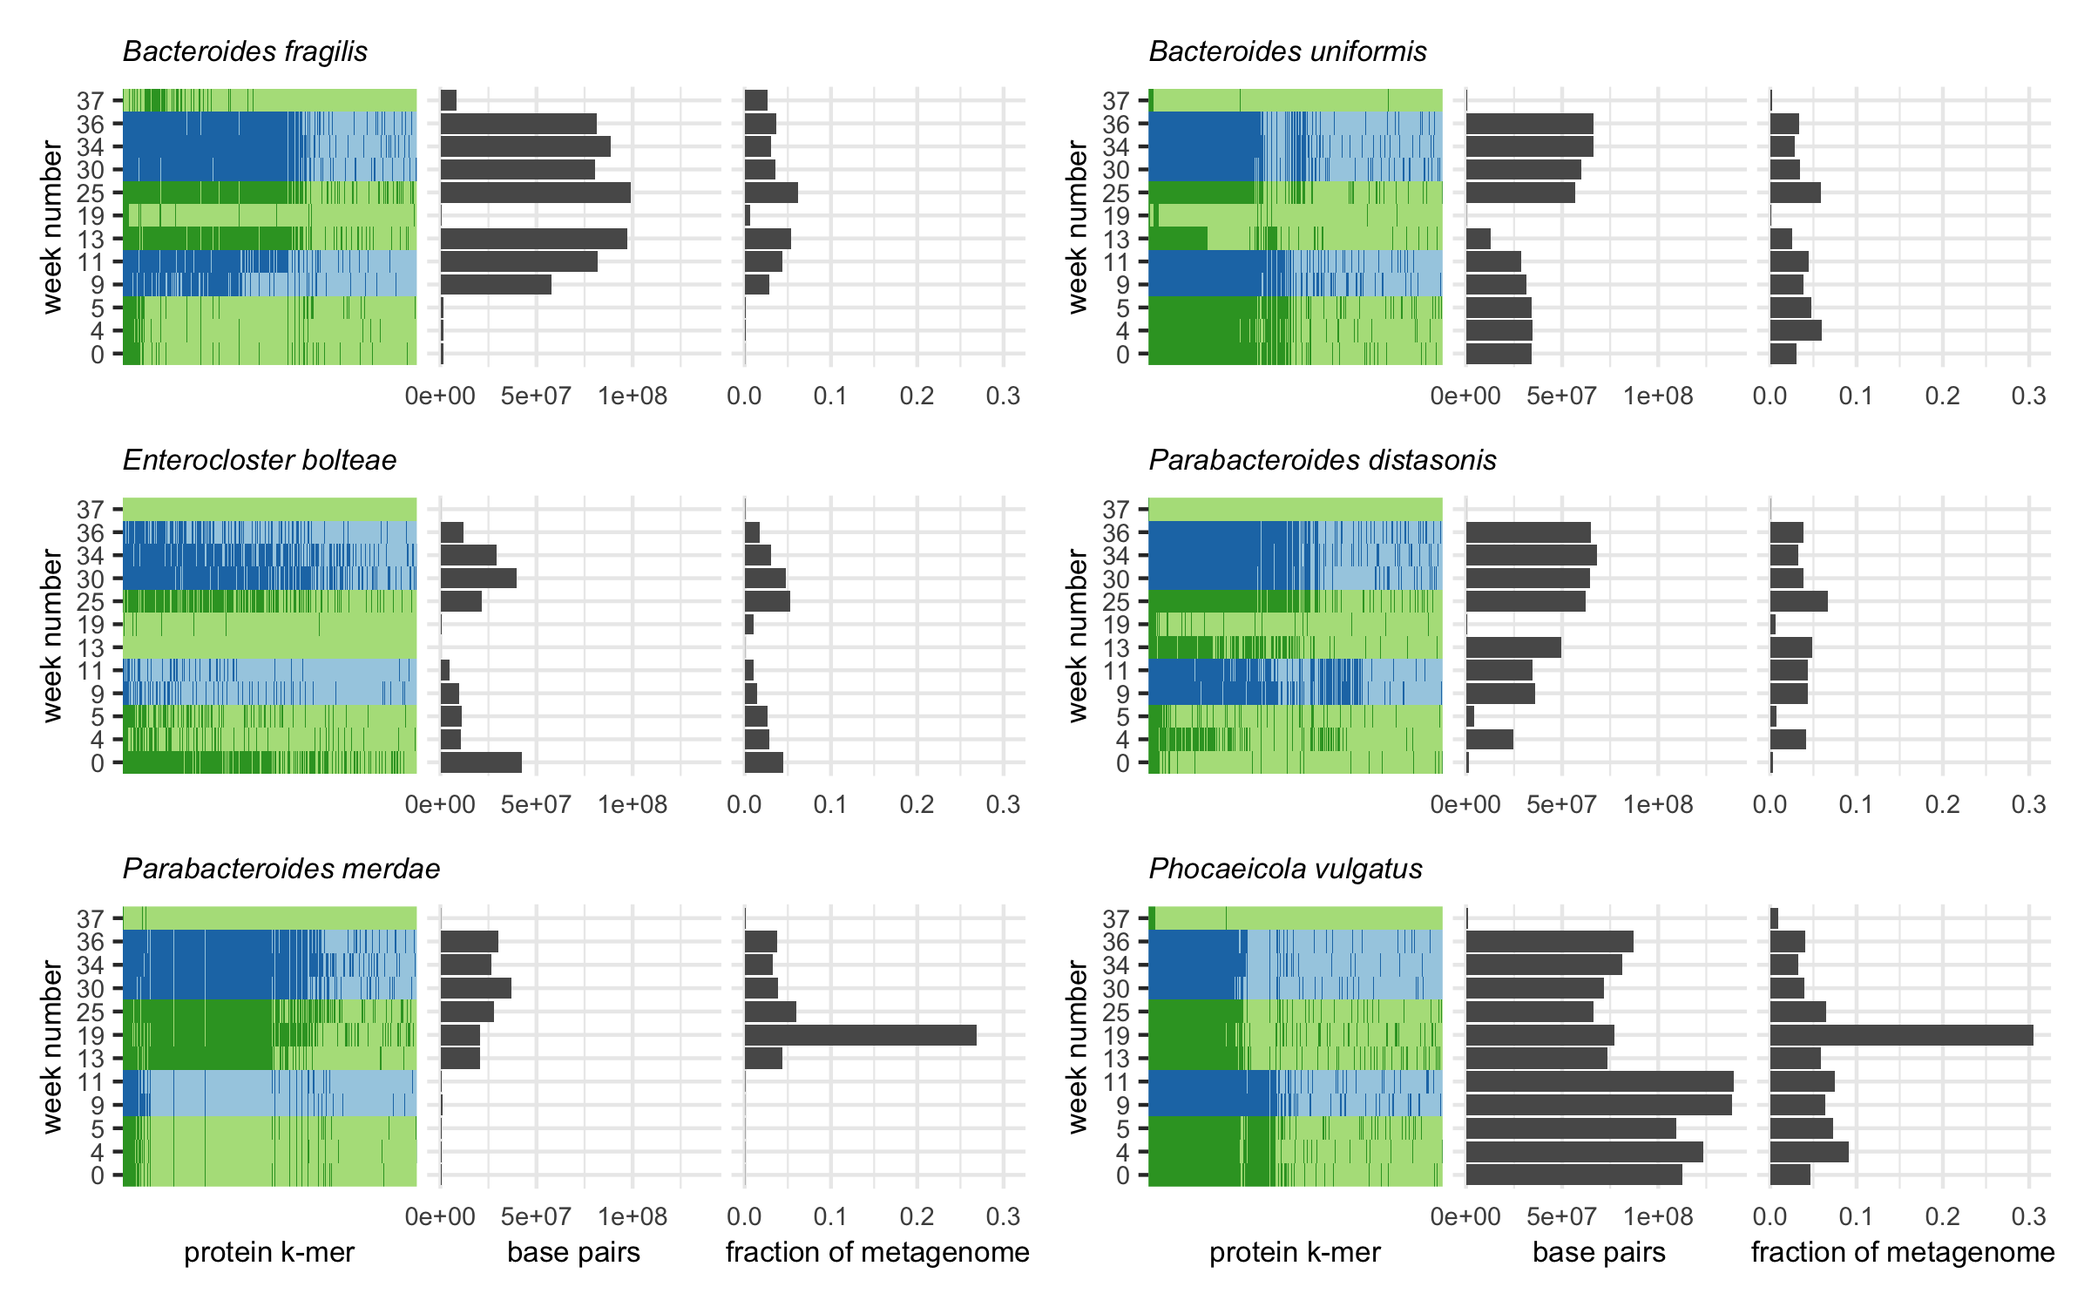
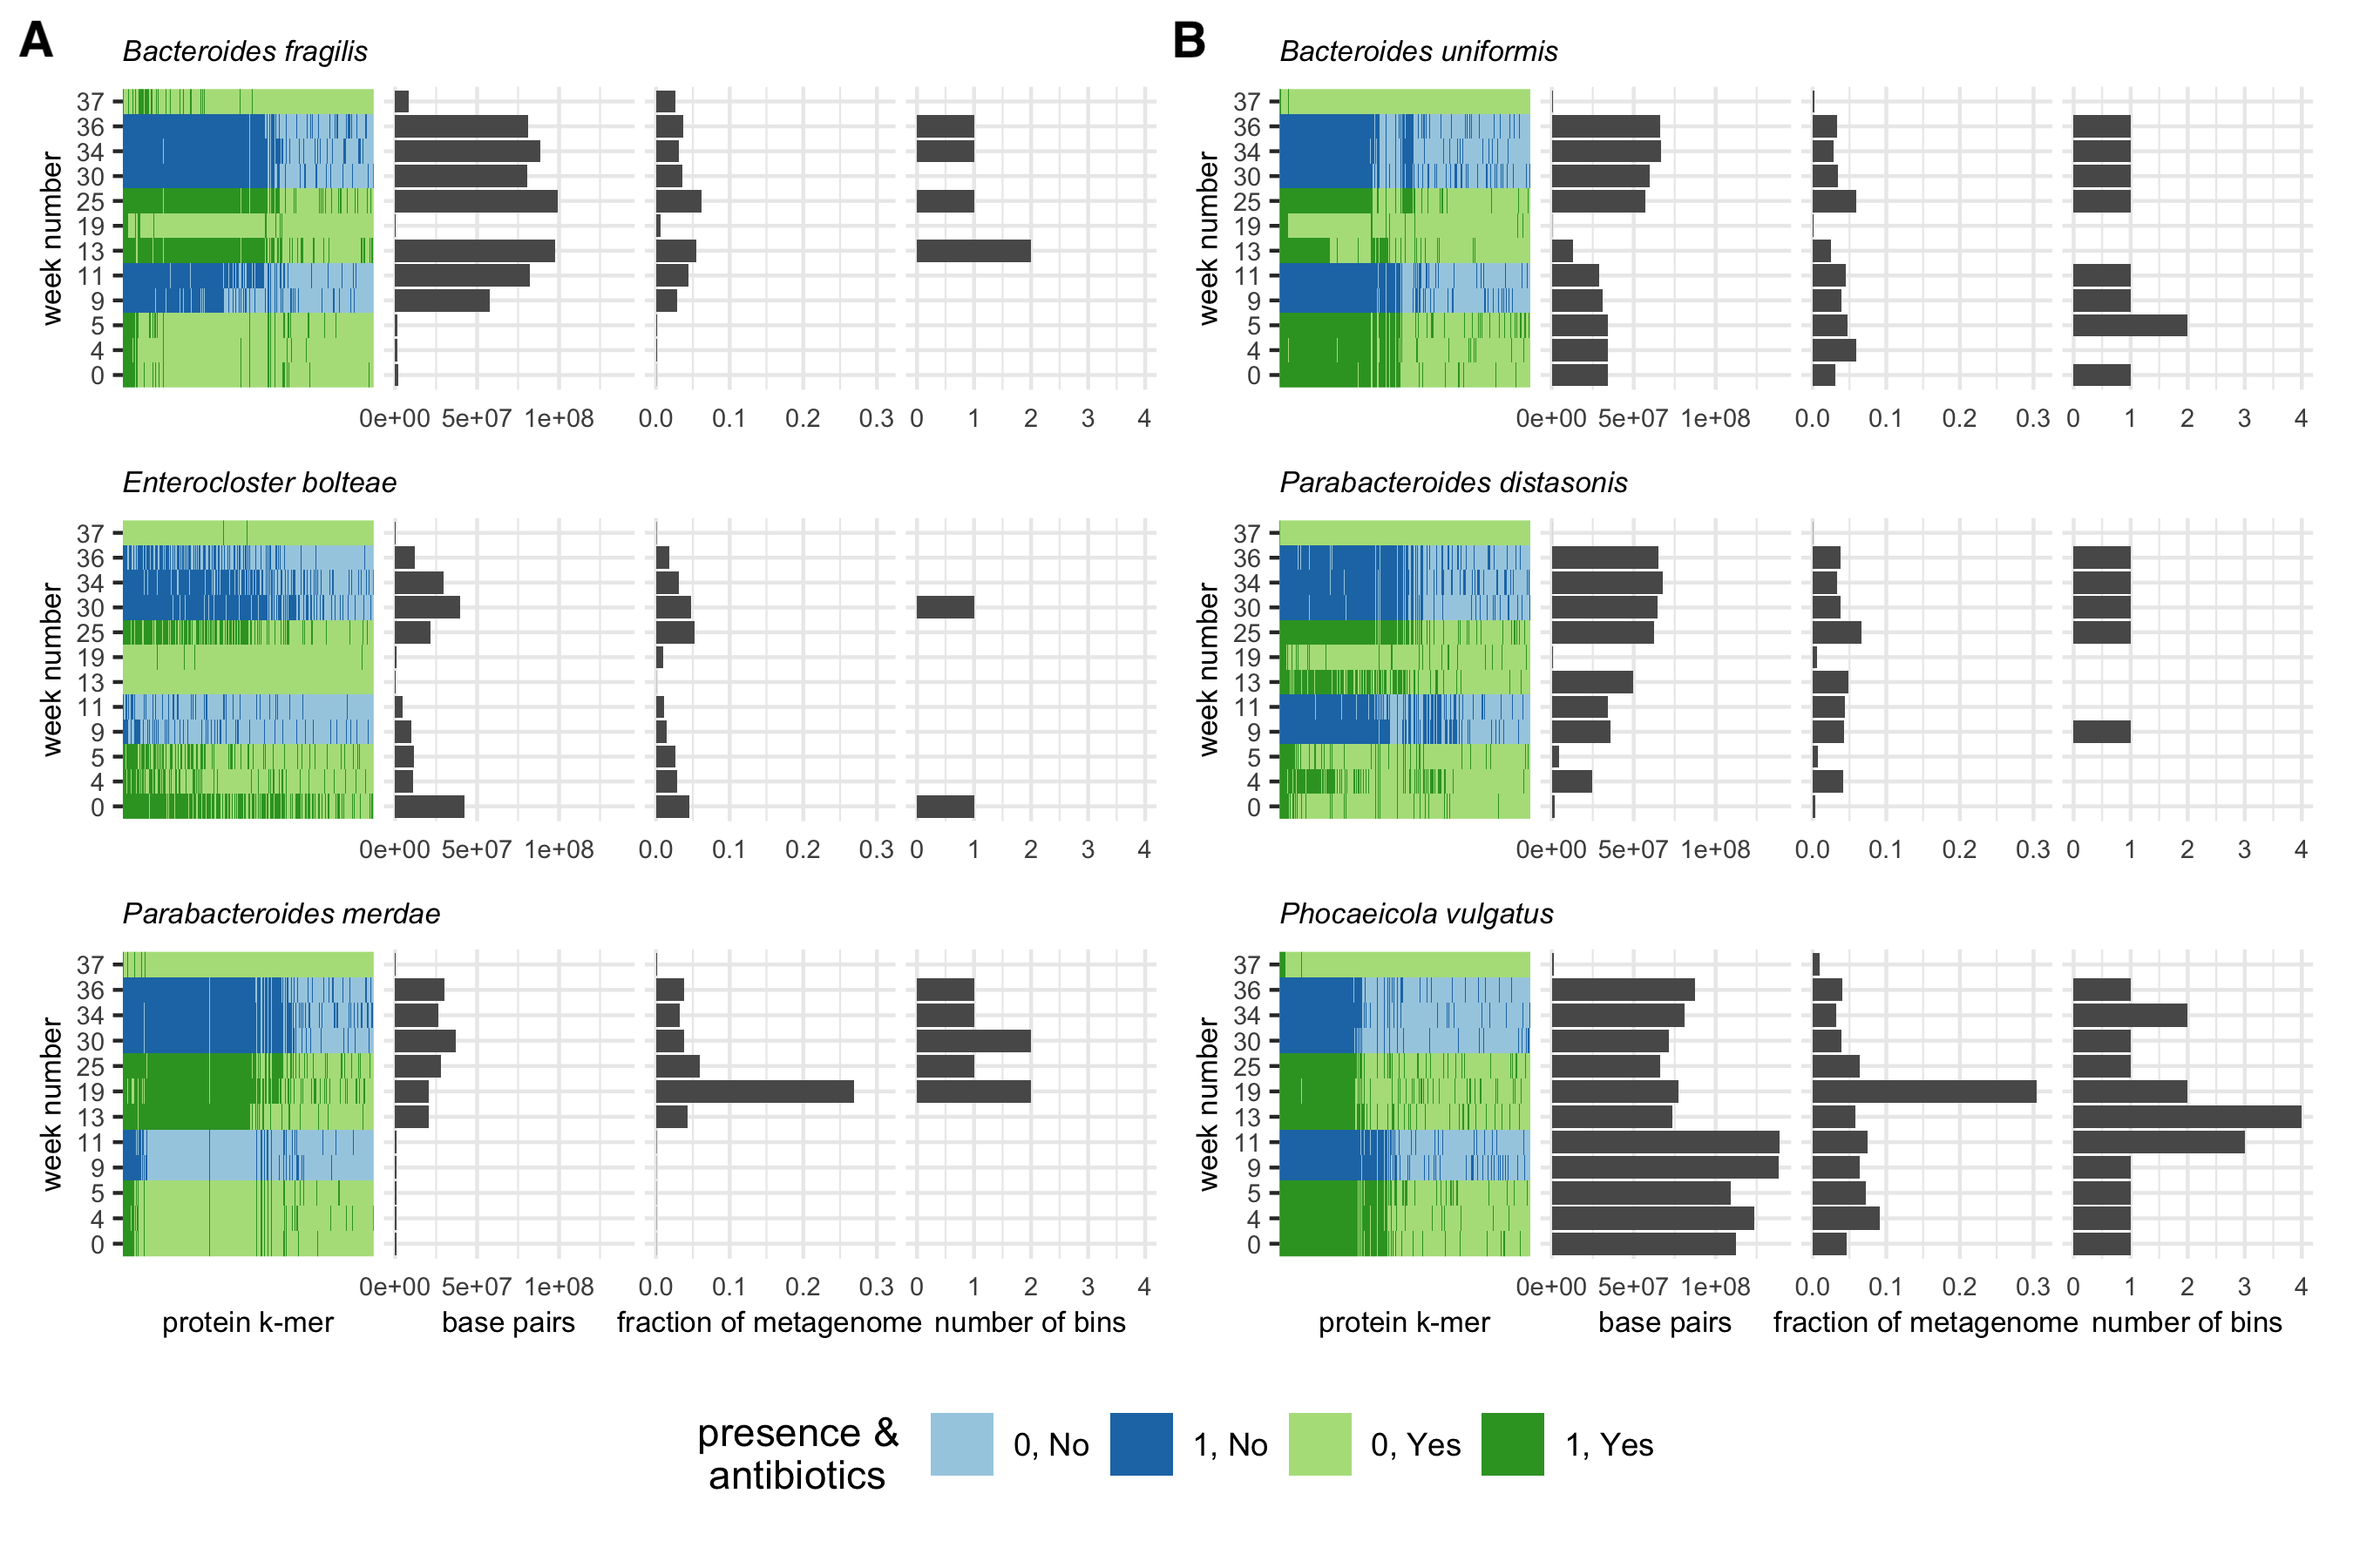
update res sec 3

diff --git a/content/03.results.md b/content/03.results.md
@@ -137,35 +137,49 @@ The best Jaccard threshold decreases when there are fewer closely related genome
 Given that amino acid k-mers accurately estimated pangenomes, and that the correct open reading frame could be predicted reliably from short sequencing data, we next combined these approaches to perform metapangenome analysis from short read shotgun metagenomes.
 We used 12 metagenomes from a single individual sampled over the course of a year by the Integrated Human Microbiome Project (iHMP) [@doi:10.1038/s41586-019-1238-8]. 
 The individual was diagnosed with Crohn's disease, a sub type of inflammatory bowel disease characterized by inflammation along the gastrointestinal tract. 
-The individual received three courses of antibiotics over the year and each course was separated by weeks without antibiotics (**Figure @fig:metag_species**).
+The individual received three courses of antibiotics over the year and each course was separated by weeks without antibiotics (**Figure @fig:metap_fig A**).
 
-![
-**Antibiotic courses and corresponding gut microbiome profiles for a single individual with Crohn's disease.**
-Fractional abundances are colored by species, with only the six species that accounted for greater than 2% of all metagenome reads displayed.
-](images/common_species_breakdown.png){#fig:metag_species height=3in}
 
-We estimated the metapangenome for each species that was detected in all 12 metagenomes and that accounted for at least 2% of reads across metagenomes, for a total of six metapangenomes (**Figure @fig:metag_species**).
+We estimated the metapangenome for each species that was detected in all 12 metagenomes and that accounted for at least 2% of reads across metagenomes, for a total of six metapangenomes (**Figure @fig:metap_fig A**).
 To obtain all sequencing reads that originated from genomes of these species, we performed assembly graph genome queries [@doi:10.1186/s13059-020-02066-4].
 Assembly graphs contain all sequences in a metagenome, and assembly graph queries return sequences in the metagenome that are either in the query or nearby to the query in the graph.
 Assembly graph genome queries return sequencing reads that originate from genomes in the metagenome that have as little as 0.1 Jaccard similarity (approximately 93% average nucleotide identity (ANI) (CITE: TESSA)) to the query genome [@doi:10.1186/s13059-020-02066-4].
 After retrieving reads in this way, we predicted open reading frames using orpheum. 
 We used species-level databases as these were successful in the context of isolate genomes not in the database (see above) and because they would be more likely to filter out reads beyond the species boundary (95% ANI [@doi:10.1038/s41467-018-07641-9]) that were returned by assembly graph queries.
-Using the predicted amino acid sequences, we built metapangenomes for each of the six species (**Figure @fig:metap_fig**).
+Using the predicted amino acid sequences, we built k~aa~-mer metapangenomes for each of the six species (**Figure @fig:overview C, @fig:metap_sfig, Table @tbl:metap**).
 
-Unlike isolate genomes, metagenomes may contain a fraction of an organism's genome if the metagenome was not sequenced deeply or if an organism was rare. 
-To calculate the core, shell, and cloud fractions and to estimate the openness of the metapangenome, we removed samples with fewer than 10,000 k-mers (**Table @tbl:metap**).
+We compared these metapangenomes against reference pangenomes built using genomes of the same species in GTDB and against *de novo* metapangenomes built from MAGs of the same species that were assembled and binned from these samples (see Methods).
+Almost all sequences from the reference pangenome occurred within the k~aa~-mer metapangenomes (**Figure @fig:metap_fig B**), indicating we recovered the majority of sequencing variation contained within the reference pangenome. 
+Further, a large fraction of sequences were shared between the *de novo* metapangenome and the k~aa~-mer metapangenome (**Figure @fig:metap_fig B**), indicating we also recover the majority of variation captured by assembly and binning.
 
-|species| n |total  |core |  shell  | cloud | alpha |
-|:--------------------------:|:-:|:-----:|:-----:|:-----:|:-----:|:-----:|
-|*Bacteroides fragilis*      |  7| 24819 | 56.3%  | 11.3% | 32.4%  |0.76|
-|*Bacteroides uniformis*     |  9| 32197 |38.0%   | 22.3% | 39.7% |0.73|
-|*Enterocloster bolteae*     |  4| 23620 |55.8%   | 18.3% | 25.9% |0.66|
-|*Parabacteroides distasonis*|  7| 25789 |42.4%   | 30.9% | 26.8% |0.74|
-|*Parabacteroides merdae*    |  6| 19985 |63.2%   | 9.6%  | 27.1% |0.82|
-|*Phocaeicola vulgatus*      | 11| 41005 |30.3%   |20.4%  | 49.2% |0.65|
-Table: Metapangenome estimates for each species. *n* designates the number of metagenomes used to estimate the total, core, shell, cloud, and alpha values.
-{#tbl:metap}
+A large fraction of k-mers were only represented in the k~aa~-mer metapangenome.
+To determine whether these sequences represented true biological variation from our query species and not contamination from other species, we next iteratively mapped the reads that were used to build the k~aa~-mer against the reference pangenome and the *de novo* metapangenome (**Figure @fig:metap_fig C**).
+The majority of reads mapped against the reference pangenomes (mean XX, SD XX), a few of the unmapped reads mapped against the *de novo* metapangenome (mean XX, SD XX), and XX% of reads did not map.
+We repeated this process a second time but mapped in amino acid space.
+Mapping in amino acid space improves sensitivity over nucleotide mapping [@doi:10.1093/bioinformatics/btx021].
+The fraction of reads that mapped increased by an average of XX% (SD), accounting for XX% of total reads and indicating that a substantial fraction of distinct sequences in the k~aa~-mer metapangenome represent diverged sequences with similar amino acid sequences.
 
+On average, XX% (SD) of reads from the k~aa~-mer metapangenome were unaccounted for after mapping against other (meta)pangenomes.
+We assembled and annotated these reads, and BLASTed the resultant protein sequences against the NCBI nr database.
+Of XX predicted genes with a BLAST hit, XX% matched sequences from the same species as the top hit.
+This suggests our method recovers functional sequences even if those sequences are not in MAGs or in reference databases (in this case, in NCBI nr but not GTDB).
+
+<!-- A small fraction (XX%) of reads did not map or assemble and annotate.
+While we cannot confirm the identity of these reads, we presume these reads represent true variation attributable to the species investigated. 
+OR BLASTP a subset using orpheum? -->
+
+Visualization the k~aa~-mer metapangenomes alongside sequencing depth information, we observed dynamics in the presence of species (**Figure @fig:metap_sfig A**) or strains (**Figure @fig:metap_sfig B**) in response to antibiotic administration.
+The fluctuation of the presence of species indicates that antibiotic administration impacted the community structure of the gut microbiome, as is expected [@doi:10.3390/biomedicines8110502].
+This is exemplified by periodic blooms of *Enterocloster bolteae*, an organism associated with disturbance succession [@doi:10.1101/gr.138198.112].
+
+Similarly, we detected fluctuations in the strains of species present in the community, with presumed strain switches occurring on or after the start of metronidazole administration at week 13 (**Figure @fig:metap_fig D**).
+Both ciprofloxacin and metronidazole are broad-spectrum antibiotics, but they differ in their mechanisms of action. 
+Ciprofloxacin mainly impacts gram negative bacteria through the inhibition of DNA replication by inhibiting DNA topoisomerase and DNA gyrase. 
+In contrast, metronidazole targets anaerobic bacteria via reduction by pyruvate:ferredoxin oxidoreductase system which creates an electron sink that produces free radicals that are toxic to cells [@doi:10.1093/jac/31.1.9]. 
+Metronidazole treatment disproportionately impacts the presence of anaerobes in the gut microbiome [@doi:10.1007/s10350-004-0623-y].
+To confirm that fluctuating accessory elements in metapangenomes reflected strain switches, we compared the nucleotide k-mer content in each query neighborhood against the GTDB database to determine which strains were present.
+We used a k-mer size of 51, as this is indicative of strain-level similarity (CITE: metapalette, tessa).
+<!--
 Using our metapangenome approach, we identified interesting patterns in accessory gene presence associated with antibiotic exposure (**Figure @fig:metap_fig**).
 For example, the *Phocaeicola vulgatus* metapangenome is stable for the first 11 weeks of sampling even during ciprofloxacin exposure,
 but a portion of the accessory genome corresponding to XX% of the total metapangenome disappears at week 13, coinciding with metronidazole administration.
@@ -176,9 +190,16 @@ In two bacterial species, antibiotic administration appears to spur on strain sw
 In *Bacteroides uniformis*, one set of accessory elements present from weeks 0 - 11 is replaced by a new set in weeks 25-36.
 Similarly, in *Parabacteroides distasonis*, accessory elements present in weeks 4, 9, and 11 are replaced by new accessory elements in weeks 25-36. 
 Both switches occur during metronidazole administration after the bloom of *P. merdae* and *P. vulgatus*.
+-->
 
-![
-](images/metap.png){#fig:metap_fig}
-
-+ Do I need to compare these results against typical metapangenomics? like do de novo assembly, binning, prokka? etc?
-+ What else, if anything, belongs in this section?
+![****
+**A)** Antibiotic courses and corresponding gut microbiome profiles for a single individual with Crohn's disease.
+Fractional abundances are colored by species, with only the six species that accounted for greater than 2% of all metagenome reads displayed.
+**B)** Upset plot of amino acid k-mers (*k* = 10) present in the k~aa~-mer metapangenomes, the *de novo* metapangenomes, and the reference pangenome. 
+Intersections are colored by species. 
+**C)** Bar plots indicating the average fraction of reads used to build the k~aa~-mer metapangenome that mapped first against the reference pangenome, then against the *de novo* metapangenome, or were unmapped. 
+More reads mapped in amino acid space than in nucleotide space.
+**D)** Bar plots of the fraction of k~aa~-mer metapangenome sequences that were anchored to a given strain using the sourmash gather algorithm against the GTDB rs202 database (*k* = 51).
+Starting at at week 13, sequences from previously unobserved strains were detected within each metapangenome.
+This timing coincides with metronidazole administration.
+](images/metap_figure_panel.png){#fig:metap_fig}

diff --git a/content/95.appendix.md b/content/95.appendix.md
@@ -15,8 +15,29 @@ The slight increase observable for some species is a result of different thresho
 ](images/orpheum_supp1.png){#fig:orpheum_db height=3in}
 
 
+|species| n |total  |core |  shell  | cloud | alpha |
+|:--------------------------:|:-:|:-----:|:-----:|:-----:|:-----:|:-----:|
+|*Bacteroides fragilis*      |  7| 24819 |56.3%   | 11.3% | 32.4% |0.76|
+|*Bacteroides uniformis*     |  9| 32197 |38.0%   | 22.3% | 39.7% |0.73|
+|*Enterocloster bolteae*     |  4| 23620 |55.8%   | 18.3% | 25.9% |0.66|
+|*Parabacteroides distasonis*|  7| 25789 |42.4%   | 30.9% | 26.8% |0.74|
+|*Parabacteroides merdae*    |  6| 19985 |63.2%   | 9.6%  | 27.1% |0.82|
+|*Phocaeicola vulgatus*      | 11| 41005 |30.3%   |20.4%  | 49.2% |0.65|
+Table: Metapangenome estimates for each species. *n* designates the number of metagenomes used to estimate the total, core, shell, cloud, and alpha values. Unlike isolate genomes, metagenomes may contain a fraction of an organism's genome if the metagenome was not sequenced deeply or if an organism was rare. 
+To calculate the core, shell, and cloud fractions and to estimate the openness of the metapangenome, we removed samples with fewer than 10,000 k-mers.
+{#tbl:metap}
 
-
+![**k~aa~-mer metapangenomes for six species.** Each species contains a four-panel figure.
+The first panel is a binmap plot. 
+Dark colors represent k-mers that are present in each sample. 
+Blue shades represent time points when the sampled individual was not on antibiotics, while green shades represent time points when the individual was on antibiotics. 
+The second panel represents an estimated number of base pairs in the metagenome detected to originate from that species. 
+The third panel represents an estimated fraction of the metagenome assigned to that species.
+The fourth panel represents the number of bins produced for that species from that sample using a *de novo* metagenome assembly and binning approach.
+The two values represented in the second and third panels and the species assignations used to infer the value represented in the fourth panel were inferred using the sourmash gather algorithm against the GTDB rs202 database.
+**A)** Species for which presence-absence fluctuated over the time series. 
+**B)** Species for which strain presence-absence fluctuated over the time series.
+](images/metap.png){#fig:metap_sfig}
 
 | accession       | superkingdom | phylum                | class                  | order                 | family                   | genus                   | species                             | NCBI taxid | NCBI organism name                                       |
 |-----------------|--------------|-----------------------|------------------------|-----------------------|--------------------------|-------------------------|-------------------------------------|------------|----------------------------------------------------------|
